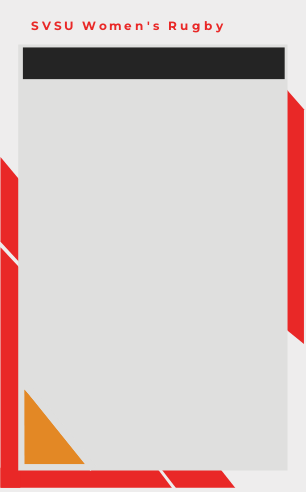
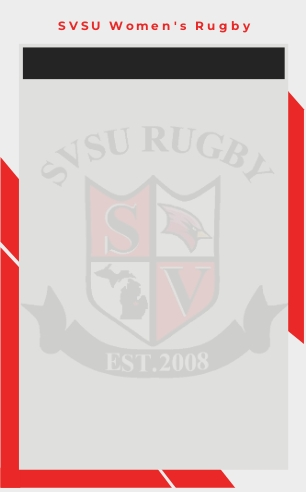
0

diff --git a/js/roster.js b/js/roster.js
@@ -1,28 +1,75 @@
 
-players = []
+array = []
 
 
 
-for(let i=0; i<10; i++){ 
-  let player ={
-    firstName: 'Kanye',
-    lastName: 'West',
-    position : 'IDK Positions',
-    age : 21,
-    height : "5'6",
-    year : 'sophomore',
-    major : 'Computer Science',
+
+let player ={
+    firstName: 'Jasmine',
+    lastName: 'Day',
+    position : 'Coach',
+    age : 23,
+    height : "5'7",
+    year : 'Coach',
+    major : 'People Person',
     hometown : 'Saginaw'
 }
+array.push(player)
 
-players.push(player)
-
+let player1 ={
+  firstName: 'Steve',
+  lastName: 'Jobs',
+  position : 'Graveyard',
+  age : 60,
+  height : "6 feet under",
+  year : 'dead',
+  major : 'iPhone',
+  hometown : 'The dirt'
 }
+
+let player2 ={
+  firstName: 'Flynn',
+  lastName: 'Cat',
+  position : 'Window',
+  age : 6,
+  height : "1'",
+  year : 'cat',
+  major : 'sleeping',
+  hometown : 'home'
+}
+let player3 ={
+  firstName: 'Kanye',
+  lastName: 'West',
+  position : 'God Lover',
+  age : 45,
+  height : "6'",
+  year : 'who knows',
+  major : 'sleeping',
+  hometown : 'God'
+}
+
+let player4 ={
+  firstName: 'Liv',
+  lastName: 'Coach',
+  position : 'Coach',
+  age : 22,
+  height : "5'5",
+  year : 'idk',
+  major : 'idk',
+  hometown : 'idk'
+}
+
+
+array.push(player1)
+array.push(player2)
+array.push(player3)
+array.push(player4)
+
 
 
   const spot = document.querySelector('.spotPlayers');
   console.log(spot)
-  for(let i=0; i<10; i++){ 
+  for(let i=0; i<array.length; i++){ 
     const flipCard = document.createElement('div')
     flipCard.classList.add('flip-card');
 
@@ -42,24 +89,23 @@ players.push(player)
     newImgF.classList.add('image1')
   
     const newImgP = document.createElement('img');
-    newImgP.src = `../assets/${players[i].firstName}${players[i].lastName}.png`;
+    newImgP.src = `../assets/${array[i].firstName}${array[i].lastName}.png`;
     newImgP.classList.add('image2');
   
     const logo = document.createElement('img');
-    logo.src = "../assets/logo.png";
+    logo.src = "../assets/test.png";
     logo.classList.add('logo');
   
     const position = document.createElement('h3');
-    position.textContent = `${players[i].position}`;
+    position.textContent = `${array[i].position}`;
     position.classList.add('positionOfPlayer');
   
     const name = document.createElement('h2');
-    name.textContent = `${players[i].firstName} ${players[i].lastName}`;
+    name.textContent = `${array[i].firstName} ${array[i].lastName}`;
     name.classList.add('nameOfPlayer')
 
     front.appendChild(newImgF);
     front.appendChild(newImgP);
-    front.appendChild(logo);
     front.appendChild(position);
     front.appendChild(name);
 
@@ -72,7 +118,7 @@ players.push(player)
     back.appendChild(newImgB)
 
     const p = document.createElement('p');
-    p.innerHTML = `Name: ${players[i].firstName} ${players[i].lastName} <br><br>Age: ${players[i].age}<br><br>Height: ${players[i].height}<br><br>Class: ${players[i].year}<br><br>Position: ${players[i].position}<br><br>Major: ${players[i].major}<br><br>Hometown: ${players[i].hometown}`;
+    p.innerHTML = `<b>Name: ${array[i].firstName} ${array[i].lastName} <br><br>Age: ${array[i].age}<br><br>Height: ${array[i].height}<br><br>Class: ${array[i].year}<br><br>Position: ${array[i].position}<br><br>Major: ${array[i].major}<br><br>Hometown: ${array[i].hometown}</b>`;
     
     back.appendChild(p)
 
@@ -88,7 +134,7 @@ players.push(player)
 
 const spotC = document.querySelector('.spotCoaches');
   console.log(spot)
-  for(let i=0; i<5; i++){ 
+  for(let i=0; i<array.length; i++){ 
     const flipCard = document.createElement('div')
     flipCard.classList.add('flip-card');
 
@@ -108,7 +154,7 @@ const spotC = document.querySelector('.spotCoaches');
     newImgF.classList.add('image1')
   
     const newImgP = document.createElement('img');
-    newImgP.src = `../assets/${players[i].firstName}${players[i].lastName}.png`;
+    newImgP.src = `../assets/${array[i].firstName}${array[i].lastName}.png`;
     newImgP.classList.add('image2');
   
     const logo = document.createElement('img');
@@ -116,16 +162,15 @@ const spotC = document.querySelector('.spotCoaches');
     logo.classList.add('logo');
   
     const position = document.createElement('h3');
-    position.textContent = `${players[i].position}`;
+    position.textContent = `${array[i].position}`;
     position.classList.add('positionOfPlayer');
   
     const name = document.createElement('h2');
-    name.textContent = `${players[i].firstName} ${players[i].lastName}`;
+    name.textContent = `${array[i].firstName} ${array[i].lastName}`;
     name.classList.add('nameOfPlayer')
 
     front.appendChild(newImgF);
     front.appendChild(newImgP);
-    front.appendChild(logo);
     front.appendChild(position);
     front.appendChild(name);
 
@@ -138,7 +183,7 @@ const spotC = document.querySelector('.spotCoaches');
     back.appendChild(newImgB)
 
     const p = document.createElement('p');
-    p.innerHTML = `Name: ${players[i].firstName} ${players[i].lastName} <br><br>Age: ${players[i].age}<br><br>Height: ${players[i].height}<br><br>Year: ${players[i].year}<br><br>Position: ${players[i].position}<br><br>Major: ${players[i].major}<br><br>Hometown: ${players[i].hometown}`;
+    p.innerHTML = `Name: ${array[i].firstName} ${array[i].lastName} <br><br>Age: ${array[i].age}<br><br>Height: ${array[i].height}<br><br>Year: ${array[i].year}<br><br>Position: ${array[i].position}<br><br>Major: ${array[i].major}<br><br>Hometown: ${array[i].hometown}`;
     
     back.appendChild(p)
 

diff --git a/index.html b/index.html
@@ -13,12 +13,21 @@
     </head>
     <body>
         <!-- Responsive navbar-->
-        <h1>SVSU Women's Rugby</h1>
+
         <nav class="navbar navbar-expand-lg navbar-dark bg-dark">
+
+            <div class="navbar-collapse collapse w-100 order-1 order-md-0 dual-collapse2">
+                <ul class="navbar-nav mr-auto">
+                    <li class="nav-item active">
+                        <a class="nav-link" href="index.html"><img class="resize" src="assets/Womens_Rugby_Crest.png" alt=""> <i>SVSU Women's Rugby</i></a>
+                    </li>
+                </div>
             <div class="container px-lg-5">
-                <a class="navbar-brand" href="index.html"></a>
+                
                 <button class="navbar-toggler" type="button" data-bs-toggle="collapse" data-bs-target="#navbarSupportedContent" aria-controls="navbarSupportedContent" aria-expanded="false" aria-label="Toggle navigation"><span class="navbar-toggler-icon"></span></button>
+            
                 <div class="collapse navbar-collapse" id="navbarSupportedContent">
+
                     <ul class="navbar-nav ms-auto mb-2 mb-lg-0 nav-fill w-100">
                         <li class="nav-item"><a class="nav-link active" aria-current="page" href="index.html">Home</a></li>
                         <li class="nav-item"><a class="nav-link" href="pages\aboutUs.html">About Us</a></li>
@@ -30,7 +39,11 @@
                     </ul>
                 </div>
             </div>
+
         </nav>
+
+
+          
 
         <!-- Header-->
         <header class="py-5">

diff --git a/css/styles.css b/css/styles.css
@@ -16,8 +16,6 @@
    align-items: center;
    justify-content: center;
    align-items: center;
-   background-color: #3c3c3c;
-  
  }
  
  
@@ -196,7 +194,7 @@ body {
   color: var(--bs-body-color);
   text-align: var(--bs-body-text-align);
   /*background-color: var(--bs-body-bg);*/
-  background-color:#808080;
+  background-color:#C2CAD0;
   -webkit-text-size-adjust: 100%;
   -webkit-tap-highlight-color: rgba(0, 0, 0, 0);
 }
@@ -4167,6 +4165,8 @@ textarea.form-control-lg {
   font-size: 1.25rem;
   text-decoration: none;
   white-space: nowrap;
+  max-height: 50px;
+  
 }
 .navbar-nav {
   display: flex;
@@ -12357,3 +12357,7 @@ h1{
   border-style: solid;
 }
     
+.resize {
+  width: 50px;
+  height: auto;
+}

diff --git a/css/roster.css b/css/roster.css
@@ -66,7 +66,7 @@
   top: 86px;
   left: 31px;
   width: 250px;
-  height: 305px;
+  height: 280px;
 }
 
 .logo{
@@ -79,7 +79,7 @@
 
 .positionOfPlayer{
   position: absolute;
-  top: 415px;
+  top: 405px;
   left: 110px;
 
   color: white;
